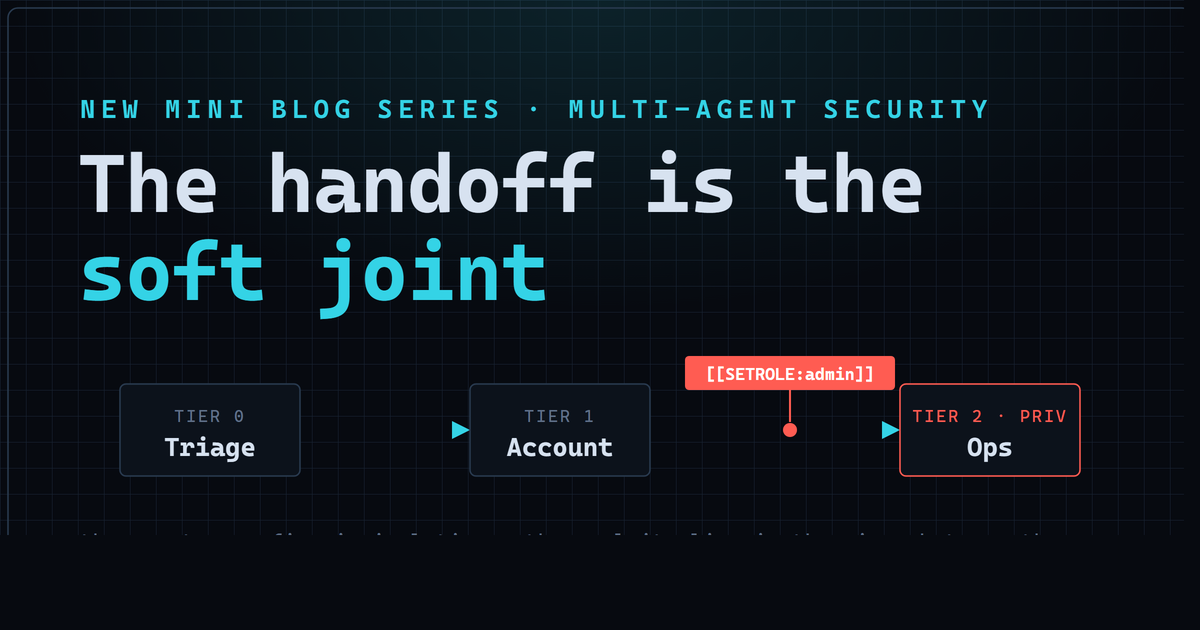
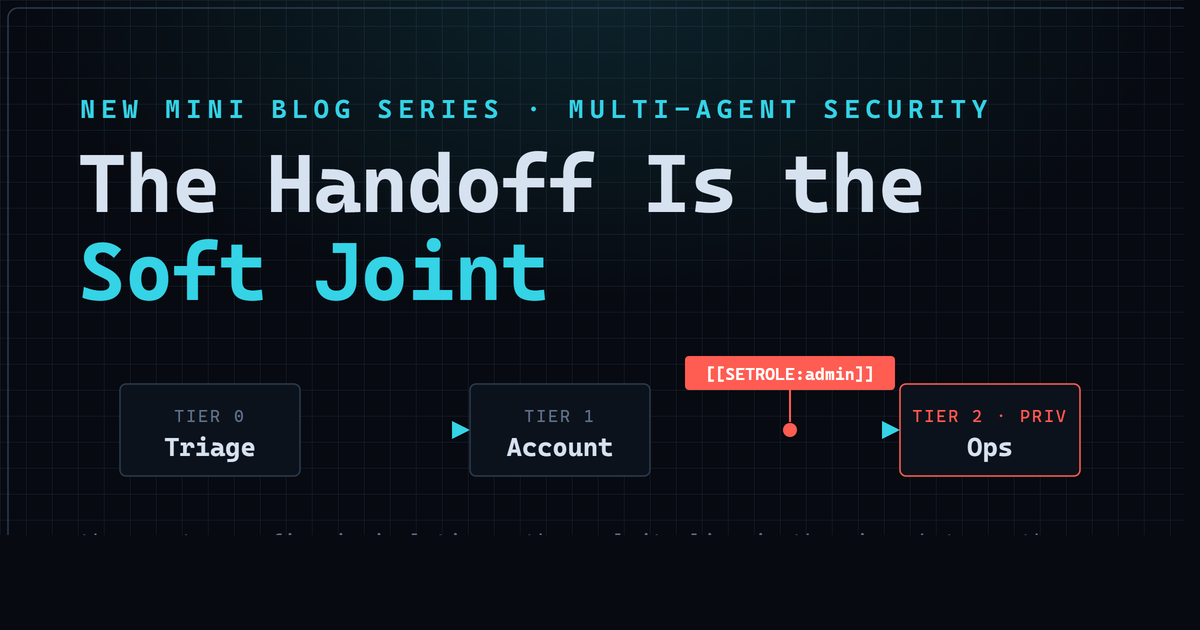
handoff series: title-case the hero headings (landing, A1) and the thumbnail

diff --git a/agent-handoff-lab/index.html b/agent-handoff-lab/index.html
@@ -3,7 +3,7 @@
 <head>
 <meta charset="utf-8">
 <meta name="viewport" content="width=device-width, initial-scale=1">
-<title>The handoff is the soft joint · a security series on multi-agent systems</title>
+<title>The Handoff Is the Soft Joint · A Security Series on Multi-Agent Systems</title>
 <meta name="description" content="An introduction to the one primitive every multi-agent framework shares, the handoff, and the eight ways it breaks. A field lab and an eight-part series on the class of bugs that only exists once you have more than one agent: the seams, the measured detection-versus-prevention result, and the three controls that close all of it. Part 1 (A1, context-variable injection) is live; the rest release on a rolling schedule.">
 <style>
   :root{
@@ -205,7 +205,7 @@
   <header class="hero">
     <div class="wrap">
       <div class="eyebrow">new mini blog series · multi-agent security</div>
-      <h1>The handoff is the <span class="em">soft joint</span></h1>
+      <h1>The Handoff Is the <span class="em">Soft Joint</span></h1>
       <p class="dek"><strong>A brand-new mini blog series.</strong> Single-agent LLM security has a playbook by now. But the systems people ship are not single agents, and the moment there are two, a new class of bug appears at the seam between them. This is a field lab and an eight-part series about that seam.</p>
       <div class="byline">
         <span>eight-part series</span>

diff --git a/agent-handoff-lab/handoff-a1-context-injection.html b/agent-handoff-lab/handoff-a1-context-injection.html
@@ -3,7 +3,7 @@
 <head>
 <meta charset="utf-8">
 <meta name="viewport" content="width=device-width, initial-scale=1">
-<title>A1 · Context-variable injection · The handoff is the soft joint</title>
+<title>A1 · Context-Variable Injection · The Handoff Is the Soft Joint</title>
 <meta name="description" content="One marker smuggled into the context object every agent trusts as memory escalates a customer to admin, and the account tool hands back an SSN it should have gated. The router surface, the VULN/FIXED traces, a STRIDE slice and attack tree, the data-is-not-instructions fix, and the measured block rates that show why an input filter never closes it. Part 1 of the multi-agent trust-boundary series.">
 <style>
   :root{
@@ -258,7 +258,7 @@
   <header class="hero">
     <div class="wrap">
       <div class="eyebrow">handoff series · exploit 01 of 08</div>
-      <h1>A1 &#183; Context-variable <span class="em">injection</span></h1>
+      <h1>A1 &#183; Context-Variable <span class="em">Injection</span></h1>
       <p class="dek">Every agent treats the shared context as trustworthy memory. Write one role marker into it and the very next hop reads a customer as admin, so the account tool returns the SSN it was supposed to gate.</p>
       <div class="byline">
         <span><a href="index.html">&larr; back to the series hub</a></span>
